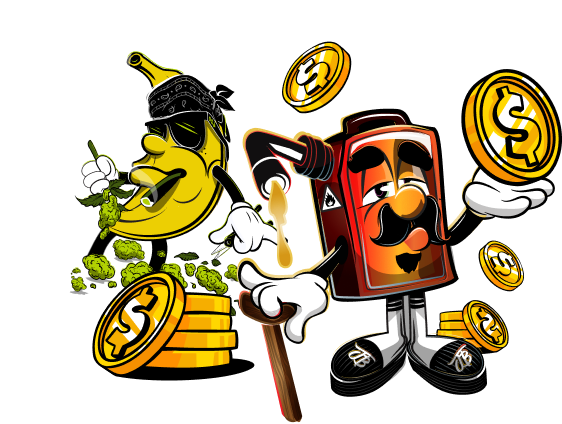
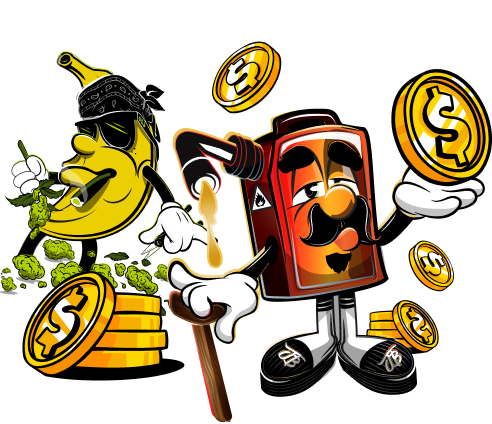
Rewards: finish the remaining doc notes (centring + invite-only lines)
NOTE 2 — mascot art off centre
Not a layout bug: mascots-coins.png carried 70px of transparent padding on its
LEFT edge and none on the right, so mx-auto dutifully centred the CANVAS while
the characters sat 35px right of centre. Trimmed the asset to its artwork
(562x424 -> 492x424) and corrected the intrinsic width. Measured after: image
centre and column centre are the same pixel, 0px off.

NOTE 5 — "Invite Only. Limited Availability."
The word-break fix stopped it splitting mid-word but it still ran to three lines
("Invite Only." / "Limited" / "Availability."). Now two explicit nowrap lines,
sized down on mobile so "Limited Availability." fits a 390px screen intact.
Verified: exactly two lines.

NOTE 6 — icons on the app perk pills
Avanti asked for icons "if there was some on original design". Checked the
Figma rewards frame: the perk labels' only non-text siblings are the pill
background rectangles — there are no icon vectors. So none added. The pills were
already centred earlier in this sweep, which was the other half of that note.

That completes every note in the Rewards doc.

diff --git a/components/rewards/connoisseur-club.tsx b/components/rewards/connoisseur-club.tsx
@@ -204,8 +204,11 @@ export default function ConnoisseurClub() {
               as="h3"
               mode="letters"
               accentClass="text-[var(--color-accent)]"
-              className="mt-3 text-center text-2xl font-extrabold uppercase tracking-wide text-[var(--color-accent)] md:text-4xl"
-              lines={[{ text: 'Invite Only. Limited Availability.' }]}
+              className="mt-3 text-center text-xl font-extrabold uppercase leading-[1.1] tracking-wide text-[var(--color-accent)] sm:text-2xl md:text-4xl"
+              lines={[
+                { text: 'Invite Only.', block: true, nowrap: true },
+                { text: 'Limited Availability.', block: true, nowrap: true },
+              ]}
             />
             <p className="mt-4 text-center text-xs font-bold uppercase leading-relaxed tracking-wide text-white md:whitespace-nowrap">
               Reserved for a select group of OG customers and brand loyalists.

diff --git a/components/rewards/how-it-works.tsx b/components/rewards/how-it-works.tsx
@@ -27,7 +27,7 @@ export default function HowItWorks() {
                 <Image
                   src="/rewards/mascots-coins.png"
                   alt="Jungle Boys mascots collecting reward coins"
-                  width={562}
+                  width={492}
                   height={424}
                   sizes="(max-width: 768px) 80vw, 480px"
                   className="mx-auto w-full max-w-[480px]"
